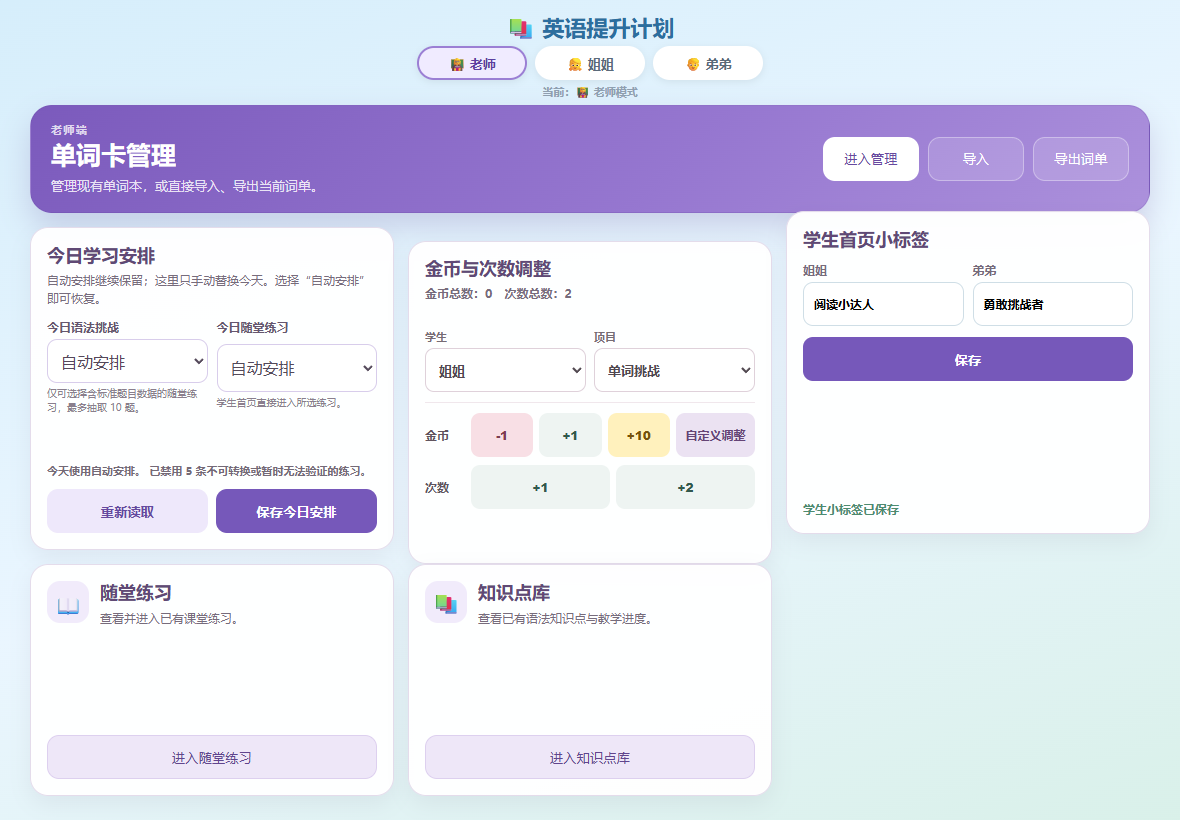
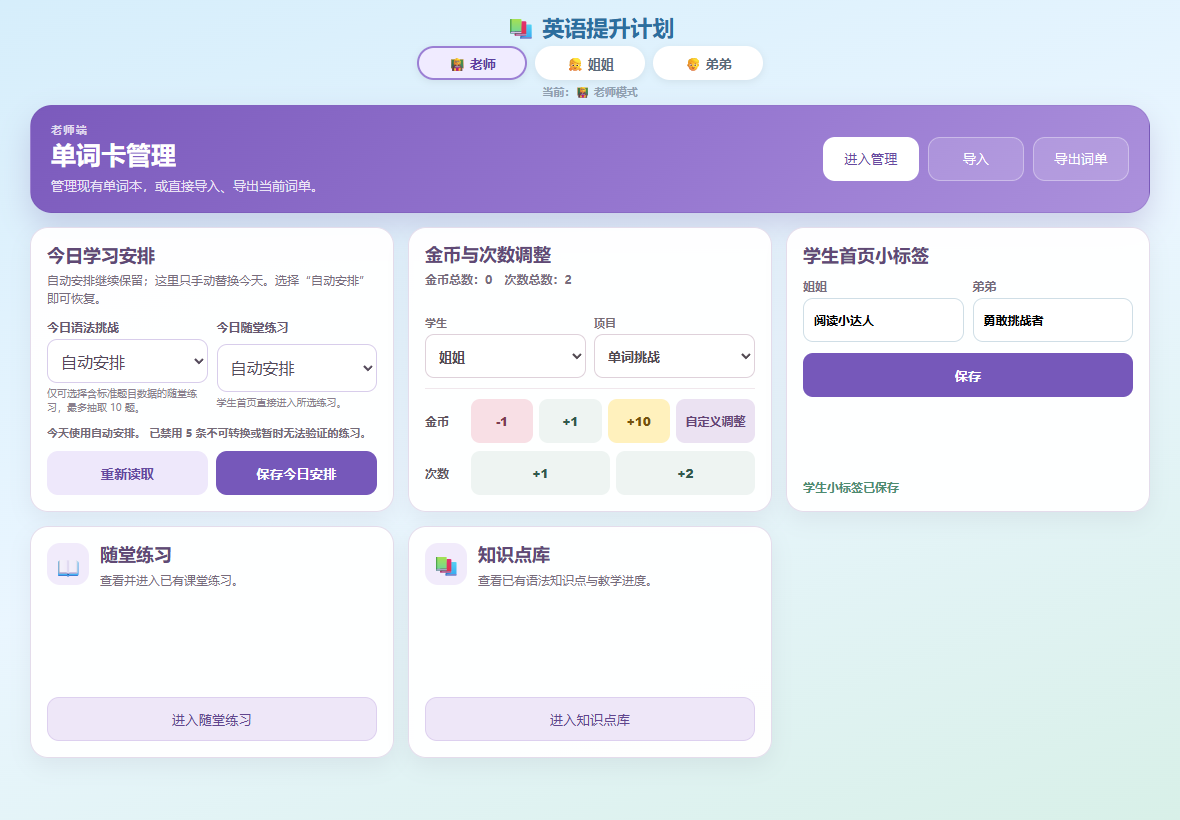
fix: align teacher dashboard cards

diff --git a/tests/homeNavigationLayout.test.js b/tests/homeNavigationLayout.test.js
@@ -42,6 +42,11 @@ assert.doesNotMatch(teacherNav, /openVocabularyReviewList|生词巩固/);
 
 assert.match(baseStyles, /\.teacher-dashboard-grid\s*\{[^}]*grid-template-columns:\s*repeat\(3,\s*minmax\(0,\s*1fr\)\)/s);
 assert.match(baseStyles, /\.teacher-dashboard-primary\s*\{/);
+assert.match(
+  baseStyles,
+  /#teacherDashboardGrid > #teacherDailyRoutePanel,[\s\S]*?#teacherDashboardGrid > #teacherStudentTagPanel\s*\{[^}]*margin:\s*0/s,
+  'dynamic teacher cards must override legacy panel margins'
+);
 assert.match(baseStyles, /\.vocabulary-tour-entry\s*\{/);
 assert.match(layoutStyles, /\.bottom-feature-nav\.student-only\s*\{[^}]*margin:\s*18px auto 6px[^}]*grid-template-columns:\s*repeat\(3,\s*minmax\(0,\s*1fr\)\)/s);
 assert.match(layoutStyles, />\s*\.bottom-feature-nav__item\s*\{[^}]*grid-column:\s*auto/s);

diff --git a/tests/studentHomePerformance.test.js b/tests/studentHomePerformance.test.js
@@ -90,8 +90,8 @@ assert.match(adventureVisual, /ensureLayoutStylesheet\(\);\s*refresh\(\);/);
 assert.match(adventureVisual, /const scheduleMicrotask = typeof queueMicrotask === 'function'/);
 assert.match(adventureVisual, /function replaceChildrenCompat\(node, \.\.\.children\)/);
 
-assert.match(serviceWorker, /xxzcard-app-shell-v56/);
-assert.match(serviceWorker, /xxzcard-runtime-v56/);
+assert.match(serviceWorker, /xxzcard-app-shell-v57/);
+assert.match(serviceWorker, /xxzcard-runtime-v57/);
 assert.match(main, /loadFeatureScript\('js\/dailyLearningRoute\.js'\)/);
 assert.ok(
   main.indexOf("loadFeatureScript('js/dailyLearningRoute.js')") < main.indexOf("loadFeatureScript('js/masterVocabularyLibrary.js')"),

diff --git a/styles.css b/styles.css
@@ -161,7 +161,7 @@ body.is-teacher .current-mode { margin-top: 0; font-size: 11px; }
 #teacherDashboardGrid > #teacherDailyRoutePanel,
 #teacherDashboardGrid > #teacherActivityPanel,
 #teacherDashboardGrid > #teacherStudentTagPanel {
-  width: 100%; max-width: none; height: 100%;
+  width: 100%; max-width: none; height: 100%; margin: 0;
   flex-direction: column;
 }
 #teacherDashboardGrid > #teacherDailyRoutePanel { display: flex; }

diff --git a/service-worker.js b/service-worker.js
@@ -1,5 +1,5 @@
-const APP_SHELL_CACHE = 'xxzcard-app-shell-v56';
-const RUNTIME_CACHE = 'xxzcard-runtime-v56';
+const APP_SHELL_CACHE = 'xxzcard-app-shell-v57';
+const RUNTIME_CACHE = 'xxzcard-runtime-v57';
 const CACHE_PREFIXES = ['xxzcard-', 'vocabulary-review-'];
 const APP_SHELL = [
   './index.html',
